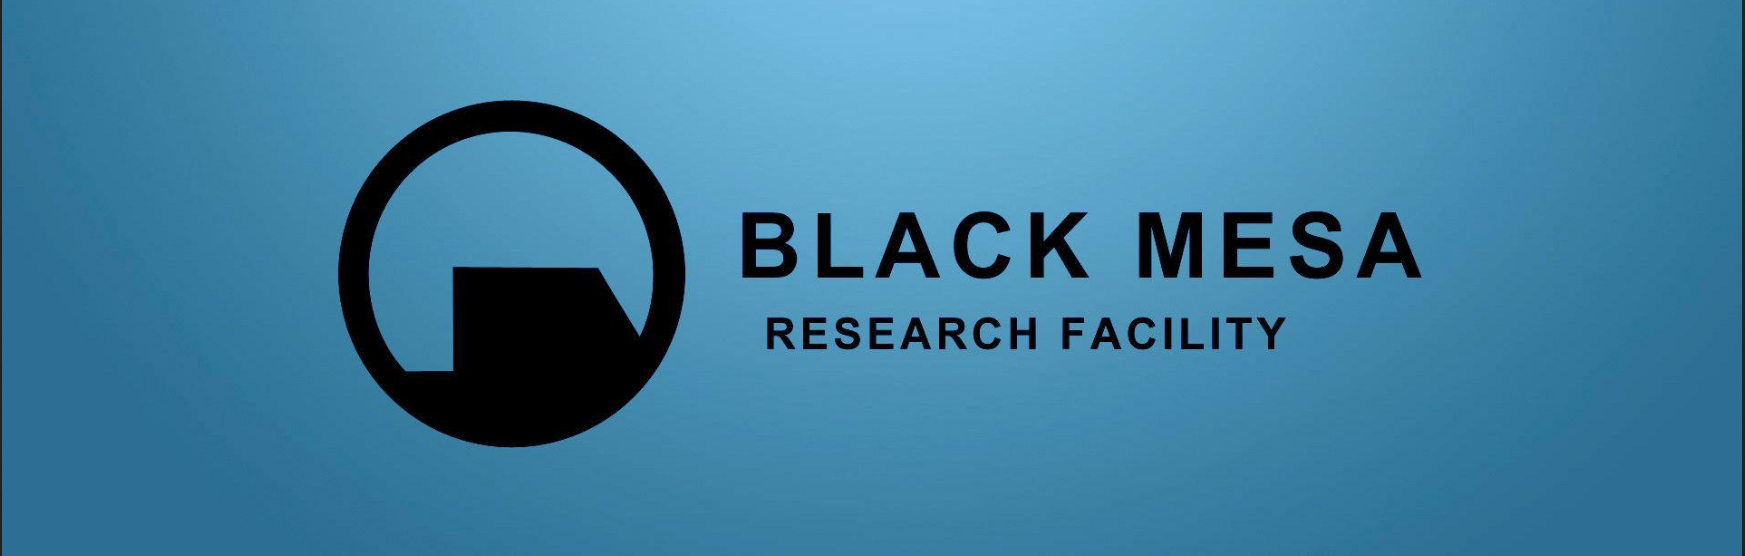
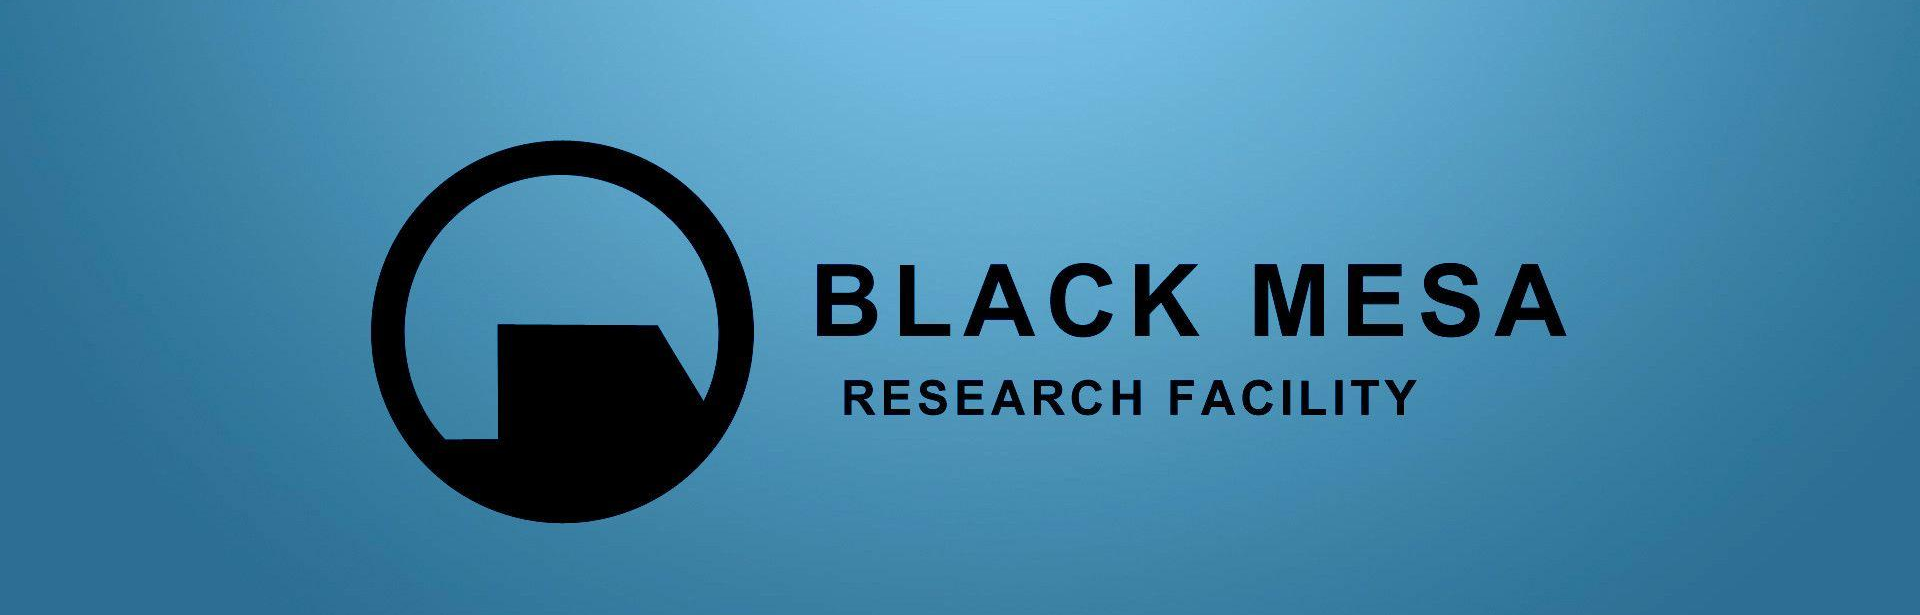
More CSS practice. Front page sample looks better.

Changed region(s): [[0.1857, 0.1835, 0.8355, 0.8561], [0.9903, 0.0, 1.0, 1.0]]

diff --git a/css/html5_semantics/styles.css b/css/html5_semantics/styles.css
@@ -1,0 +1,129 @@
+body, ul, li, h1, h2, a{
+    /* A CSS property reset */
+    margin: 0;
+    padding: 0;
+    font-family: arial;
+}
+
+header { 
+    background-color:rgb(41, 92, 151);
+    padding: 15px;
+    text-align: center;
+    position: fixed;
+    /* Think: Layers like in photoshop, the bigger the number, the higher it is placed
+    forward. */
+    width: 100%;
+    z-index: 1;
+    top: 0px;
+    left: 0px;
+
+
+
+    /*
+    left: 100px; 
+    top: 100px;
+    */
+    
+}
+
+header h1 {
+    color: rgb(0, 225, 255);
+    font-family:courier;
+    border: 4px solid rgba(255, 255, 255, 0.493);
+    padding: 6px 12px;
+    display: inline-block;
+    border-radius: 10px;
+}
+
+.banner {
+    position: relative;
+}
+
+.banner img {
+    /* To ensure the banner can only be
+    max width of 100% of the user's screen. */
+    max-width: 100%;
+}
+
+.banner .welcome {
+
+    /* When we position something absolutely,
+    we take it out of normal document flow,
+    and we lose that space that it was
+    originally in. The space is then eaten up by
+    rest of the content underneath it.*/
+    color: rgb(0, 225, 255);
+    position: absolute;
+    background-color: rgba(0, 14, 139, 0.336);
+    left: 2%;
+    top: 20%;
+    padding:5px 20px 5px 20px; /*top, right, bottom, left */
+}
+
+.banner h2 {
+    font-size: 20px;
+    letter-spacing: 4px;
+}
+
+.banner h2 span {
+    font-size: 1.3em;
+    font-family:courier;
+}
+
+nav{
+    background-color:rgb(41, 92, 151);
+    width: 100%;
+    padding: 10;
+    position: sticky;
+    top: 88px;
+}
+
+nav ul{
+    white-space: nowrap;
+    max-width: 1200px;
+    margin: 0 auto;
+}
+
+nav li{
+    width: 25%;
+    display: inline-block;
+    font-size: 24px;
+    padding: 20px;
+}
+
+nav li a{
+    text-decoration: none;
+    color:rgb(0, 225, 255);
+}
+
+main {
+    max-width: 100%;
+    width: 1200px;
+    margin: 80px auto;
+    padding: 0 40px;
+    box-sizing: border-box;
+}
+
+article h2{
+    color:rgb(6, 31, 59);
+    font-size: 40px;
+}
+
+article p{
+    line-height: 2em;
+    color: rgb(24, 34, 78)
+}
+
+.images {
+    text-align: center;
+    margin: 80px 0;
+}
+
+.images li{
+    display: inline-block;
+    width: 40%;
+}
+
+.images li img {
+    max-width: 100%;
+}

diff --git a/css/html5_semantics/index.html b/css/html5_semantics/index.html
@@ -2,18 +2,18 @@
 <html>
 <head>
     <link rel="stylesheet" href="styles.css">
-    <title>Marioclub</title>
+    <title>Black Mesa</title>
 </head>
 <body>
 
     <header> <!-- Meant to contain the navigation, site title, etc. -->
         <h1>Black Mesa Research Facility</h1>
     </header> 
-    
+
     <section class="banner">
         <img src="img/banner.png" alt="black_mesa_logo">
         <div class="welcome">
-            <h2>Welcome to the<br><span>Black Mesa Research Facility</span></h2>
+            <h2>Delivering the <span>Future</span></h2>
         </div>
     </section>
     <nav class="main-nav">
@@ -27,7 +27,7 @@
 
     <main>
         <article>
-            <h2>Delivering The Fututre</h2>
+            <h2>Working to Make a Better Tomorrow for All Mankind</h2>
             <p>
                 Lorem ipsum dolor sit amet consectetur adipisicing elit. 
                 Dolores numquam recusandae repudiandae earum quos totam.
@@ -50,6 +50,10 @@
             <input type="email" name="email" placeholder="Type e-mail & hit enter " required>
         </form>
     </section>
+
+    <footer>
+        <p class="copyright">Copyright 2020 Black Mesa Research Facility</p>
+    </footer>
 
 </body>
 
